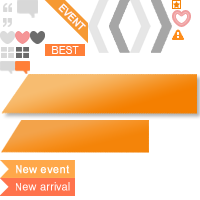
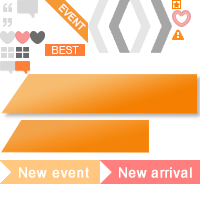
댓글 전부다

Changed region(s): [[0.0, 0.78, 1.0, 0.99]]

diff --git a/jtown/src/main/webapp/resources_mobile/css/mobile-mirros.css b/jtown/src/main/webapp/resources_mobile/css/mobile-mirros.css
@@ -74,8 +74,8 @@
 
 .mm-home-article>article>ul>li>.mm-home-mainImage-event{ position: absolute; height: 0; width: 100%; margin : 3px 0 0 -84px;  }
 .mm-home-article-new-wrap{float: right; width: 60%;}
-.mm-home-article-event-new{ text-indent: -99999px; margin: 5px -3px 0 0; background: url("../images/jt-home-icon.png") no-repeat; background-position: 0px -160px; float:right; width: 75px; height: 18px;}
-.mm-home-article-product-new{ text-indent: -99999px; margin: 5px -3px 0 0; background: url("../images/jt-home-icon.png") no-repeat; background-position: 0px -178px; float:right; width: 75px; height: 18px;}
+.mm-home-article-event-new{ text-indent: -99999px; margin: 5px -3px 0 0; background: url("../images/jt-home-icon.png") no-repeat; background-position: 0px -160px; float:right; width: 100px; height: 24px;}
+.mm-home-article-product-new{ text-indent: -99999px; margin: 5px -3px 0 0; background: url("../images/jt-home-icon.png") no-repeat; background-position: -100px -160px; float:right; width: 100px; height: 24px;}
 
 .mm-home-article>article>div{width: 100%; float: left;}
 .mm-home-article-quotationmark-first{ float:left; width: 10%; margin-top: 5px; }
@@ -104,6 +104,14 @@
 .mm-home-love-number-click{ color: #f59697 !important; }
 .mm-home-number{width: 20px; height: 15px; float: left; font-size: 75%; font-weight: bold; color: #b2b2b2; line-height: 16px;}
 .mm-home-hot{ width :27px; height: 15px; float: left; font-weight: bold; font-size: 75%; color: #e92f25;line-height: 16px;}
+
+.mm-home-shop-comments-wrap{width: 100%; float: left; border-top : 1px solid #dbd9ca; padding: 14px 10px;
+	box-sizing: border-box; -o-box-sizing : border-box; -ms-box-sizing : border-box; -moz-box-sizing : border-box; -webkit-box-sizing : border-box; 
+}
+.mm-home-shop-comments{ width: 100%; float: left;   font-size : 75%; padding-left: 8px; color : #b2b2b2; line-height : 21px;
+	border-left: 3px solid #e5e5e5;
+	box-sizing: border-box; -o-box-sizing : border-box; -ms-box-sizing : border-box; -moz-box-sizing : border-box; -webkit-box-sizing : border-box; 
+}
 
 @keyframes mm-love-click { from {opacity : 0;} to {opacity: 1;} }
 @-webkit-keyframes mm-love-click { from {opacity : 0;} to {opacity: 1;} }
@@ -280,12 +288,13 @@
 .mm-mir-longNotice{ font-size: 75%; color: #979797; line-height: 17px;}
 
 .mm-mir-products{float: left;
-	width : 100%; padding : 15px 5px 10px 5px ; border-bottom: 1px solid #dbd9ca; min-height : 200px; max-height: 320px;
+	width : 100%; padding : 15px 5px 10px 5px ; border-bottom: 1px solid #dbd9ca; min-height : 220px; max-height: 340px;
 	box-sizing: border-box; -o-box-sizing : border-box; -ms-box-sizing : border-box; -moz-box-sizing : border-box; -webkit-box-sizing : border-box;      
 }
 .mm-mir-products>header{float: left; width: 100%; text-align: center; padding-bottom: 10px; }
 .mm-mir-products>header>span{font-family: NanumGothic, Dotum, Gulim; font-size: 100%; color: #737373;}
 .mm-mir-products-fake{ width: 100%; margin: 30px auto 0 auto; display: block; max-height: 260px; min-height:140px; max-width: 260px; min-width: 140px; }
+.mm-mir-products>footer{float: left; width: 100%; height: 20px;}
 
 #mm-carousel{ width: 100% !important; padding: 0 0 !important;}
 #mm-carousel ul { margin: 0; padding: 0; position:relative; max-height: 260px; min-height: 140px;}
@@ -303,6 +312,13 @@
 .mm-mir-products-new{font-family : Arial; color: #ff9600; font-size: 68.75%; float: right; margin: -35px 5px 0 0;}
 .textholder{ font-size: 75%; height: 50px;}
 .textholder>.mm-carousel-text{width: 100%; height: 20px; display: block; text-align: center; line-height: 20px; color: #fff;}
+
+.mm-mir-tag{float: left; width: 100%; text-align: right; padding : 10px 25px 0 25px; margin-top:-3px;
+	box-sizing: border-box; -o-box-sizing : border-box; -ms-box-sizing : border-box; -moz-box-sizing : border-box; -webkit-box-sizing : border-box;
+}
+.mm-mir-tag>.tag-image{float:right; text-indent: -99999px; background: url("../images/jt-shop-tag.png"); width: 35px; height: 16px; text-align: left; margin-right: 5px; }
+.mm-mir-tag>.tag-txt{ float: right; height: 16px; line-height: 17px; color: #a6a6a6; font-size: 68.75%;}
+
 
 .mm-mir-events{width: 100%; float: left; background: #fff;}
 .mm-mir-events>div{ width: 50%; float: left; height: 20%; }

diff --git a/jtown/src/main/webapp/resources/js/content/jtown.js b/jtown/src/main/webapp/resources/js/content/jtown.js
@@ -346,20 +346,22 @@ jtown.home.html = function(data) {
 			hotHtml = !(nullValueCheck(seller.loveHotCount) || seller.loveHotCount == 0 ) ? '<span class="jt-home-shop-love-hot" title="최근 뜨는 미니샵">HOT</span>' : '',
 			loveClick = !nullValueCheck(seller.customerPn) ? 'jt-home-shop-love-click' : '',
 			loveTextClick = !nullValueCheck(seller.customerPn) ? 'jt-home-shop-love-text-click' : '';
+	
+		var imageCp = 'http://www.mirros.net/';
 		
 		if(mainImages.length == 0){
-			imageHtml = '<img alt="Blank" src="'+contextPath+'resources/images/jt-introduce-home-blank.png" title="'+ htmlChars(seller.name) + '"/>	';
+			imageHtml = '<img alt="Blank" src="'+imageCp+'resources/images/jt-introduce-home-blank.png" title="'+ htmlChars(seller.name) + '"/>	';
 		}else{
 			for ( var j = 0, jLen = mainImages.length; j < jLen; j++) {
 				var mainImage = mainImages[j],
-					imageSrc = contextPath + 'resources/uploadImage/'+ mainImage;
+					imageSrc = imageCp + 'resources/uploadImage/'+ mainImage;
 				imageHtml += '<img alt="" src="' + imageSrc + '" title="'+ htmlChars(seller.name) + '"/>	';
 			}
 		}
 		for(var j = 0, jLen = comments.length; j < jLen ; j++){
 			var comment = comments[j];
-			commentHtml +='<li class="jt-home-shop-comments-li" data-isSplit="'+comment.isSplit+'" data-copn="'+comment.commentPn+'">'+htmlChars(comment.splitHome);
-			commentHtml +='</li>';
+			commentHtml +='<div class="jt-home-shop-comments" data-isSplit="'+comment.isSplit+'" data-copn="'+comment.commentPn+'">'+htmlChars(comment.splitHome);
+			commentHtml +='</div>';
 		}
 
 		html += '	<div class="jt-home-shop" id="jt-home-shop-' + spn + '"  data-spn="' + spn + '">';
@@ -409,12 +411,10 @@ jtown.home.html = function(data) {
 		html += '			</li>';
 		html += '		</ul>';
 		if(comments.length > 0){
-		html += '		<div class="jt-home-shop-comments-bar" style="height: '+(comments.length * 20 + 20)+'px;" >';	
-		html += '			<div style="height: '+(comments.length*20)+'px;"></div>';
-		html +=	'		</div>';
-		html += '		<ul class="jt-home-shop-comments">';
+		html += '		<div class="jt-home-shop-comments-wrap">';	
+		html += '			<div class="jt-home-shop-comments-bar"><div></div></div>';
 		html += '			'+commentHtml;
-		html += '		</ul>';
+		html += '		</div>';
 		}
 		html += '		'+msieHtml;
 		html += '	</div>';

diff --git a/jtown/src/main/webapp/resources/css/home.css b/jtown/src/main/webapp/resources/css/home.css
@@ -64,15 +64,14 @@ word-wrap: break-word; /* Internet Explorer 5.5+ */}
 .jt-home-shop-content-fn>li>a{float: left; margin-right: 3px; font-weight: bold; color: #b2b2b2;}
 .jt-home-shop-content-fn>li>span:nth-child(1){float: left; margin-right: 3px; font-weight: bold; color: #b2b2b2;}
 .jt-home-shop-content-fn>li>span{float: left; font-weight: bold; color: #b2b2b2;}
-.jt-home-shop-comments-bar{ float: left; width: 27px; border-top : 1px solid #dbd9ca;}
-.jt-home-shop-comments-bar>div{ margin: 13px auto 0 auto; width: 3px; background: #e5e5e5; border-radius: 1px;}
-.jt-home-shop-comments{ width: 289px; float: left;  border-top : 1px solid #dbd9ca;
+
+.jt-home-shop-comments-wrap{width: 316px; height: 50px; float: left; }
+.jt-home-shop-comments-bar{ float: left; width: 27px; border-top : 1px solid #dbd9ca; height: 49px;}
+.jt-home-shop-comments-bar>div{ margin: 13px auto 0 auto; width: 3px; background: #e5e5e5; border-radius: 1px; height: 20px;}
+.jt-home-shop-comments{ width: 289px; float: left;  border-top : 1px solid #dbd9ca; height : 50px; font-size : 12px; padding : 14px 15px 14px 0; color : #b2b2b2; line-height : 21px;
 	box-sizing: border-box; -o-box-sizing : border-box; -ms-box-sizing : border-box; -moz-box-sizing : border-box; -webkit-box-sizing : border-box;
 }
-.jt-home-shop-comments-li{ width: 100%; float: left; font-size: 12px; padding: 14px 15px 14px 0; color : #b2b2b2; line-height : 20px; min-height : 29px;
-	box-sizing: border-box; -o-box-sizing : border-box; -ms-box-sizing : border-box; -moz-box-sizing : border-box; -webkit-box-sizing : border-box;	
-}
-.jt-more-comment-wrap{ display: block; position: absolute; width: 316px; height:100px; background: rgba(63,63,63,.9); margin-left: -27px; margin-top: -85px; padding: 10px;
+.jt-more-comment-wrap{ display:none; position:absolute; width: 316px; background: rgba(63,63,63,.9); padding: 14px 10px; font-size : 12px; line-height : 20px; z-index : 2; min-height : 50px;
 	box-sizing: border-box; -o-box-sizing : border-box; -ms-box-sizing : border-box; -moz-box-sizing : border-box; -webkit-box-sizing : border-box; color: #fff;	
 }
 

diff --git a/jtown/src/main/webapp/resources/js/content/comment.js b/jtown/src/main/webapp/resources/js/content/comment.js
@@ -184,24 +184,26 @@ jtown.comment.syncComment = function(){
 
 jtown.comment.home = function(){
 
-	
-	$('.jt-home-shop-comments-li').unbind('mouseover mouseout').bind('mouseover mouseout', function(event){
-		var thiz = $(this), copn = thiz.attr('data-copn'), isSplit = thiz.attr('data-isSplit');
+	$('.jt-home-shop-comments').unbind('mouseover').bind('mouseover', function(){
+		var thiz = $(this), $parent = thiz.parents('.jt-home-shop-comments-wrap'), 
+			copn = thiz.attr('data-copn'), isSplit = thiz.attr('data-isSplit');
+		thiz.unbind('mouseover');
 		
 		if(isSplit == 'true'){
-			if(event.type == 'mouseover'){
-				var more = thiz.find('.jt-more-comment-wrap');
-				if(!nullValueCheck(more.html())){
-					more.show();
-					return ;
-				}
-				$.postJSON(contextPath + 'ajax/home/selectCommentOne.jt', { commentPn : copn }, function(comment){
-					var html = '<div class="jt-more-comment-wrap">'+comment.comment+'</div>';
-					thiz.append(html);
+			
+			$.postJSON(contextPath + 'ajax/home/selectCommentOne.jt', { commentPn : copn }, function(comment){
+				var html = '<div class="jt-more-comment-wrap">'+comment.comment+'</div>';
+				thiz.after(html);
+				
+				$parent.find('.jt-more-comment-wrap').slideDown();
+				thiz.unbind('mouseover').bind('mouseover',function(){
+					var more = $(this).parents('.jt-home-shop-comments-wrap').find('.jt-more-comment-wrap');
+					more.slideDown();
 				});
-			}else if(event.type == 'mouseout'){
-				thiz.find('.jt-more-comment-wrap').hide();
-			}
+				$('.jt-more-comment-wrap').unbind('mouseout').bind('mouseout', function(){
+					$('.jt-more-comment-wrap').slideUp();
+				});
+			});
 		}
 	});
 };

diff --git a/jtown/src/main/webapp/resources_mobile/js/mobile.mirros.js b/jtown/src/main/webapp/resources_mobile/js/mobile.mirros.js
@@ -77,6 +77,7 @@ $(function(){
 		var form = document.forms['sellerUser'];
 		form.submit();
 	});
+	
 });
 
 function onPopupLoginSubmit(){
@@ -601,10 +602,11 @@ mobile.homeSync = function(){
 mobile.homeHtml = function(data) {
 	var jtownUsers = data.jtownUsers;
 	var images = data.images;
+	var newComments = data.newComments;
 	
 	var html = '';
 	for ( var i = 0, len = jtownUsers.length; i < len; i++) {
-		var seller = jtownUsers[i], spn = seller.pn, mainImages = images[spn];
+		var seller = jtownUsers[i], spn = seller.pn, mainImages = images[spn], comments = newComments[spn];
 
 		var imageHtml = '';
 
@@ -632,6 +634,16 @@ mobile.homeHtml = function(data) {
 		}
 		var newProductStyle = seller.newProduct > 0 ? 'display: block;' : 'display:none;';
 		var newBannerStyle = seller.newBanner ? 'display: block;' : 'display:none;' ;
+		
+		var commentHtml = '';
+		if(comments.length > 0){
+			commentHtml += '<div class="mm-home-shop-comments-wrap">';
+			for(var j=0, jLen = comments.length; j < jLen ; j++){
+				var comment = comments[j];
+				commentHtml +='<div class="mm-home-shop-comments">'+htmlChars(comment.comment)+'</div>';
+			}
+			commentHtml += '</div>';
+		}
 		
 		html += '<article class="mm-home-article" data-spn="' + spn + '">';
 		html += '	<header class="mm-home-article-header">';
@@ -686,6 +698,7 @@ mobile.homeHtml = function(data) {
 		html += '				</div>';
 		html += '			</li>';
 		html += '		</ul>';
+		html +=	'		'+commentHtml;
 		html += '	</footer>';
 		html += '</article>';
 	}

diff --git a/jtown/src/main/webapp/resources/js/content/expand.js b/jtown/src/main/webapp/resources/js/content/expand.js
@@ -201,8 +201,10 @@ jtown.expand.makeInnerHtml = function(spn){
 		if(nullValueCheck(jtownUser.loveHotCount) || jtownUser.loveHotCount == 0 ){
 			loveHotCount = '';
 		}
-		
-		var tagHtml = '<span class="tag-txt">';
+		var tagHtml = '<div style="padding-bottom: 15px; float:left; width: 100%;"></div>';
+		if(interests.length > 0){
+		tagHtml += '<div class="jt-home-expand-shop-tag">';	
+		tagHtml += '<span class="tag-txt">';
 		for(var i = 0, iLength = interests.length ; i < iLength ; i++){
 			var interest = interests[i];
 			tagHtml += interest.name;
@@ -211,6 +213,8 @@ jtown.expand.makeInnerHtml = function(spn){
 			}
 		}
 		tagHtml +='</span><span class="tag-image">Tag</span>';
+		tagHtml +='</div>';
+		}
 		
 		html += '<header class="jt-home-expand-click-shop-header">';
 		html += '	<div>';
@@ -241,9 +245,7 @@ jtown.expand.makeInnerHtml = function(spn){
 		}
 		html += '		<div class="jt-home-expand-shop-products ">';
 		html += '			'+smallProductHtml;
-		html += '			<div class="jt-home-expand-shop-tag">';
-		html += '				'+tagHtml;
-		html += '			</div>';	
+		html += '			'+tagHtml;
 		html += '		</div>';
 		html += '	</div>';
 		html += '	<div class="jt-home-expand-shop-event gotoPage" id="jt-seller-expand-event-first" title="클릭시 해당 쇼핑몰로 이동됩니다.">';

diff --git a/jtown/src/main/webapp/resources/css/style.css b/jtown/src/main/webapp/resources/css/style.css
@@ -136,7 +136,7 @@
 /*************************
 *	내용 f78200
 **************************/
-.jt-content{ width: 100%; min-height: 1000px; float: left; min-width: 990px; padding: 98px 0 30px 0; z-index: 1; background: #f6f4f5;}
+.jt-content{ width: 100%; min-height: 1000px; float: left; min-width: 990px; padding: 98px 0 80px 0; z-index: 1; background: #f6f4f5;}
 .jt-content-help{ width: 100%; float: left; min-width: 990px; padding: 98px 0 30px 0; z-index: 1; background: #f6f4f5;}
 /*************************
 *	꼬리말

diff --git a/jtown/src/main/webapp/resources/css/ie/7.css b/jtown/src/main/webapp/resources/css/ie/7.css
@@ -62,5 +62,7 @@
 .jt-home-shop-event-new-image{ margin: 7px 3px 0 -20px; }
 .jt-home-shop-product-new-image{  margin: 7px 3px 0 -20px; }
 
-.jt-home-shop-comments{width: 270px; }
-.jt-home-shop-comments-li{min-height: 21px;}
+#jt-home-container{z-index: 1;}
+.jt-home-shop{z-index: 2;}
+.jt-home-shop-comments{width: 270px; height : 21px;}
+.jt-more-comment-wrap{ background: #3f3f3f; margin-left: -312px; width: 296px; min-height: 22px; z-index: 50;}

diff --git a/jtown/src/main/webapp/resources/css/ie/8.css b/jtown/src/main/webapp/resources/css/ie/8.css
@@ -22,4 +22,6 @@
 .jt-product-article-object-wrap{background: #666666;}
 .jt-about-mirrosis-banner-bg{background: #666666;}
 .jt-help-notice-table thead tr{background: #e5e5e5;}
-.jt-home-shop-comments-li{min-height: 21px;}
+
+.jt-more-comment-wrap{ background: #3f3f3f; min-height: 22px; }
+.jt-home-shop-comments{ width: 289px; height : 21px;}

diff --git a/jtown/src/main/java/com/bg/jtown/business/Comment.java b/jtown/src/main/java/com/bg/jtown/business/Comment.java
@@ -206,11 +206,11 @@ public class Comment {
 		if (this.comment == null || this.comment.trim().equals("")) {
 			return "";
 		}
-		return StringUtil.strCut(this.comment.trim(), 40, "");
+		return StringUtil.strCut(this.comment.trim(), 48, "");
 	}
 	
 	public boolean getIsSplit(){
-		return StringUtil.isSplit(this.comment, 40);
+		return StringUtil.isSplit(this.comment, 48);
 	}
 
 	@Override
